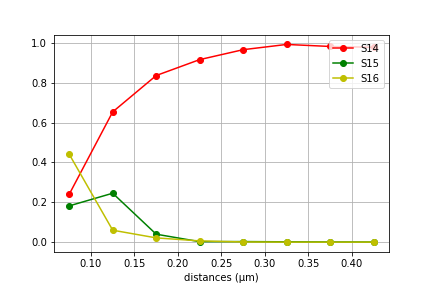
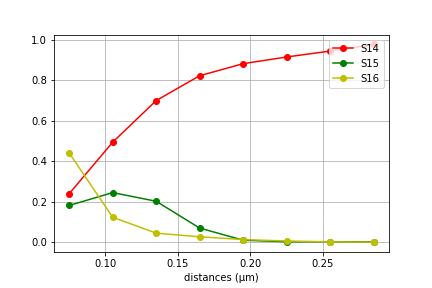
up with source and fig zoom

diff --git a/3BS/for_triBS.py b/3BS/for_triBS.py
@@ -156,7 +156,7 @@ for i in range(p):
     S.append(p6_trans)
    
     I.append(S)
-    d=d+0.05
+    d=d+0.03
     sim.reset_meep()
     
     
